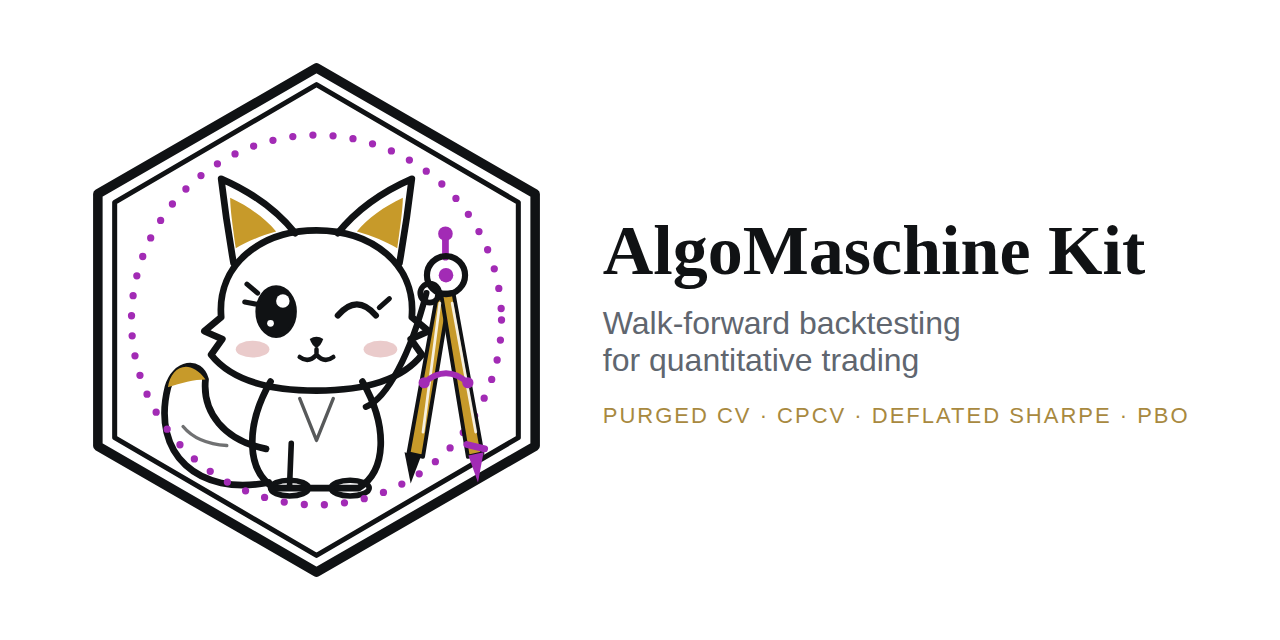
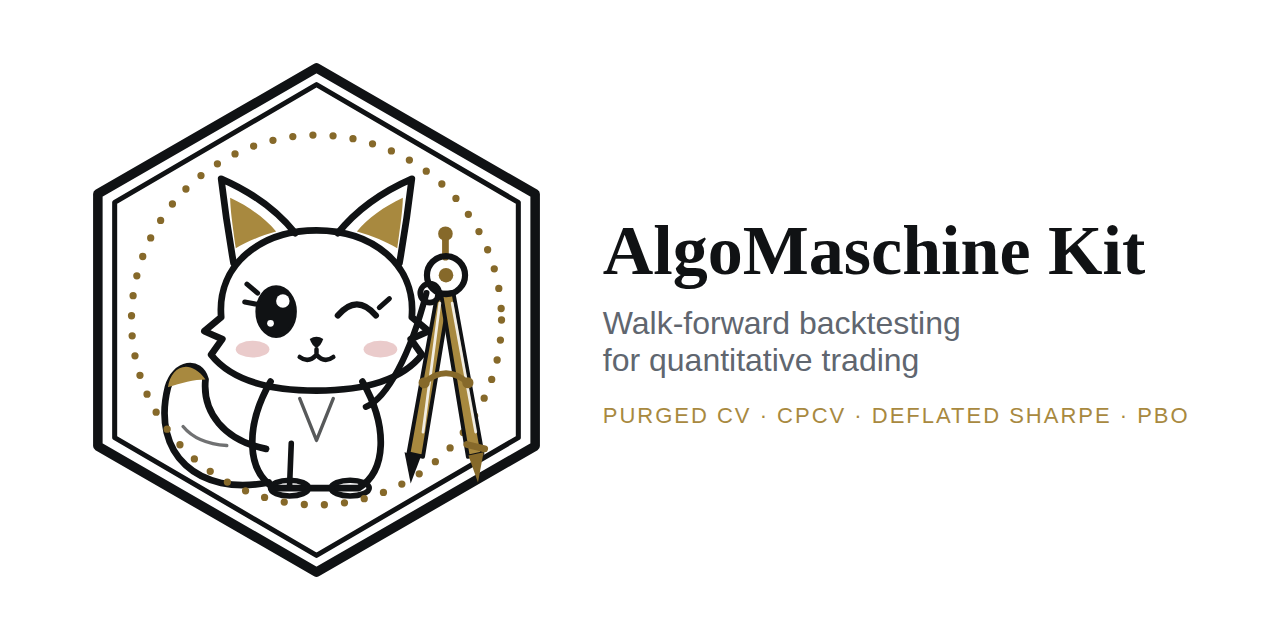
Palette: switch the whole kit to the AlgoMaschine Intelligence colours (black, white, gold)

diff --git a/amq/report/static/style.css b/amq/report/static/style.css
@@ -1,6 +1,6 @@
 /* AlgoMaschine research site: a calm, report-like style. Flat surfaces, hairline rules, one restrained accent
-   (the logo's magenta), no glows. Chart palettes validated with the dataviz validator (--pairs all):
-   light #00928a / #a8690a / #a22bb5 on #ffffff and dark #1fa39c / #bd7f17 / #c65ad6 on #161920: all checks pass.
+   (the AlgoMaschine Intelligence gold), no glows. Chart series: teal / amber are the earlier validated pair; the third (blue)
+   is new and has not been run through the dataviz validator yet: re-run it before relying on it.
    The benchmark is a neutral reference line (thinner, always labelled), not a categorical slot. */
 :root {
   --font-ui: "Inter", system-ui, -apple-system, "Segoe UI", Roboto, sans-serif;
@@ -12,23 +12,23 @@
 }
 :root, :root[data-theme="light"] {
   color-scheme: light;
-  --page: #f6f6f3; --surface: #ffffff; --raised: #ffffff; --sunken: #f2f2ef; --ring: #e3e3de; --ring-2: #cfcfc9;
-  --ink: #15171c; --ink-2: #434852; --muted: #6a6f78; --grid: #ecece8; --axis: #c8cac5;
-  --brand: #a22bb5; --brand-ink: #8a1f9b; --brand-soft: rgba(162, 43, 181, 0.06);
-  --s1: #00928a; --s2: #a8690a; --s3: #a22bb5; --bench: #5b6170; --volume: #dedfd9;
+  --page: #f3f4f5; --surface: #ffffff; --raised: #ffffff; --sunken: #eceef0; --ring: #d6d9de; --ring-2: #c3c7cd;
+  --ink: #101214; --ink-2: #32363c; --muted: #60666f; --grid: #e6e8eb; --axis: #c3c7cd;
+  --brand: #a8893f; --brand-ink: #86692a; --brand-soft: rgba(168, 137, 63, 0.08);
+  --s1: #00928a; --s2: #a8690a; --s3: #3b5ba5; --bench: #5b6170; --volume: #dcdfe3;
   --div-pos: #00928a; --div-neg: #c8423f; --div-mid: #efefeb;
-  --seq-1: #ecd3f1; --seq-2: #d9a8e4; --seq-3: #c27ad3; --seq-4: #a22bb5; --seq-5: #7c2089; --seq-6: #561660;
+  --seq-1: #f3ead3; --seq-2: #e4d2a1; --seq-3: #cfb66d; --seq-4: #a8893f; --seq-5: #7d6425; --seq-6: #54421a;
   --good: #1a7f37; --good-bg: #e7f4ea; --warn: #8a5a00; --warn-bg: #fdf3d7; --bad: #b42318; --bad-bg: #fdeceb;
   --info: #4a5160; --info-bg: #eef0f3; --shadow: 0 1px 2px rgba(20, 22, 28, 0.04);
 }
 :root[data-theme="dark"] {
   color-scheme: dark;
-  --page: #0f1115; --surface: #161920; --raised: #1c2029; --sunken: #12151a; --ring: #262a33; --ring-2: #353a46;
-  --ink: #e8eaee; --ink-2: #b4b9c3; --muted: #8a909b; --grid: #22262e; --axis: #3a3f4a;
-  --brand: #d17ae0; --brand-ink: #dc97e8; --brand-soft: rgba(209, 122, 224, 0.08);
-  --s1: #1fa39c; --s2: #bd7f17; --s3: #c65ad6; --bench: #9aa1ad; --volume: #2a2f38;
+  --page: #0d0e10; --surface: #15171a; --raised: #1b1e22; --sunken: #101215; --ring: #2a2e34; --ring-2: #3a3f46;
+  --ink: #f4f5f6; --ink-2: #c7cbd1; --muted: #969ca5; --grid: #1f2328; --axis: #3a3f46;
+  --brand: #c2a25a; --brand-ink: #d3b46c; --brand-soft: rgba(194, 162, 90, 0.10);
+  --s1: #1fa39c; --s2: #bd7f17; --s3: #7f9fe0; --bench: #9aa1ad; --volume: #2a2f38;
   --div-pos: #1fa39c; --div-neg: #e0605c; --div-mid: #272b34;
-  --seq-1: #4a2552; --seq-2: #6d3479; --seq-3: #9447a4; --seq-4: #c65ad6; --seq-5: #da8fe5; --seq-6: #ecc3f2;
+  --seq-1: #3a2f14; --seq-2: #5e4c20; --seq-3: #8a7030; --seq-4: #c2a25a; --seq-5: #dcc07c; --seq-6: #ecdcb0;
   --good: #57c878; --good-bg: rgba(87, 200, 120, 0.11); --warn: #e3b341; --warn-bg: rgba(227, 179, 65, 0.11);
   --bad: #f47067; --bad-bg: rgba(244, 112, 103, 0.11); --info: #a3a9b4; --info-bg: rgba(163, 169, 180, 0.11);
   --shadow: none;
@@ -41,8 +41,8 @@ a { color: var(--brand-ink); text-decoration: none; }
 a:hover { text-decoration: underline; text-underline-offset: 2px; }
 :focus-visible { outline: 2px solid var(--brand); outline-offset: 2px; border-radius: 3px; }
 
-/* ------------------------------------------------------------------ top bar: the logotype as designed, always on its own violet-black */
-.topbar { position: sticky; top: 0; z-index: 20; background: #0d0614; border-bottom: 1px solid rgba(255, 255, 255, 0.08); color: #f7f4fa; }
+/* ------------------------------------------------------------------ top bar: the logotype as designed, always on its own near-black plate */
+.topbar { position: sticky; top: 0; z-index: 20; background: #14161a; border-bottom: 1px solid rgba(255, 255, 255, 0.08); color: #f4f5f6; }
 .topbar-inner { max-width: 1400px; margin: 0 auto; display: flex; align-items: center; gap: 28px; padding: 0 var(--gutter); min-height: 64px; }
 .brand { display: flex; align-items: center; gap: 12px; color: inherit; text-decoration: none; flex: none; padding: 8px 0; }
 .brand:hover { text-decoration: none; }
@@ -55,7 +55,7 @@ a:hover { text-decoration: underline; text-underline-offset: 2px; }
 .tabs a { display: flex; align-items: center; color: #b8aec6; font-weight: 500; font-size: 14px; white-space: nowrap;
   border-bottom: 2px solid transparent; margin-bottom: -1px; padding: 2px 0 0; }
 .tabs a:hover { color: #ffffff; text-decoration: none; }
-.tabs a[aria-current="page"] { color: #ffffff; border-bottom-color: #d946ef; }
+.tabs a[aria-current="page"] { color: #ffffff; border-bottom-color: #d2b469; }
 .top-right { margin-left: auto; display: flex; align-items: center; gap: 14px; flex: none; }
 .status-line { font-size: 12.5px; color: #b8aec6; display: flex; gap: 12px; align-items: center; white-space: nowrap; }
 .status-line .dot { display: inline-block; width: 7px; height: 7px; border-radius: 50%; background: #8f84a0; margin-right: 6px; vertical-align: 1px; }
@@ -182,7 +182,7 @@ table.checks td:first-child { width: 1%; padding-right: 16px; }
 
 .note { border: 1px solid var(--ring-2); background: var(--sunken); padding: 10px 14px; border-radius: var(--radius); margin: 10px 0; color: var(--ink-2); }
 pre { white-space: pre-wrap; color: var(--ink-2); font: 12px/1.5 var(--font-mono); }
-footer.site { background: #0d0614; color: #b8aec6; font-size: 12.5px; margin-top: 40px; }
+footer.site { background: #14161a; color: #a9aeb6; font-size: 12.5px; margin-top: 40px; }
 footer.site .inner { max-width: 1400px; margin: 0 auto; display: flex; align-items: center; justify-content: center; gap: 10px; padding: 22px var(--gutter) 30px; }
 footer.site img { width: 22px; height: 24px; display: block; }
 

diff --git a/skills/algomaschine-reports/SKILL.md b/skills/algomaschine-reports/SKILL.md
@@ -7,17 +7,17 @@ description: Build AlgoMaschine-branded infographics, live dashboards and white 
 
 ## Brand and house style
 - **The logotype is never redrawn or simplified.** Use `brand/mark.svg` (the neon mark with its glow) and the white
-  Montserrat Light wordmark (letter-spacing ~0.09em, its soft glow) exactly as designed, on the logo's own violet-black
-  `#0d0614`: the top bar and the footer band are always that colour, in both themes. The mark is the favicon.
+  Montserrat Light wordmark (letter-spacing ~0.09em, its soft glow) exactly as designed, on the near-black plate
+  `#14161a` (the AlgoMaschine Intelligence palette: black, white, gold): the top bar and the footer band are always that colour, in both themes. The mark is the favicon.
 - Everything else is calm and established, never "neon": flat surfaces, hairline borders, 6 px radii, no glows,
   gradients or text-shadows outside the lockup. Inter for the interface (tabular figures), Source Serif 4 for long-form
   text, JetBrains Mono for code. Light and dark themes follow the OS preference, with a toggle.
 - Typographic minus (−) for negative numbers; sentence-case headings; no emoji; status always icon + label.
 
-## Palette (validated with the dataviz validator, --pairs all; re-run it before changing anything)
-- Systems, fixed order: light `#00928a`, `#a8690a`, `#a22bb5` on `#ffffff`; dark `#1fa39c`, `#bd7f17`, `#c65ad6` on `#161920`.
+## Palette (teal and amber validated earlier with the dataviz validator; the blue third colour and the gold ramp are new, so re-run the validator before relying on them)
+- Systems, fixed order: light `#00928a`, `#a8690a`, `#3b5ba5` on `#ffffff`; dark `#1fa39c`, `#bd7f17`, `#7f9fe0` on `#15171a`.
   Benchmark = neutral reference line (`#5b6170` light / `#9aa1ad` dark), thinner and always labelled.
-- Diverging (gain/loss): teal pole, red pole, neutral midpoint. Sequential: one plum ramp. Status colours are reserved.
+- Diverging (gain/loss): teal pole, red pole, neutral midpoint. Sequential: one gold ramp. Status colours are reserved.
 - More than 3 series -> small multiples or an HTML legend with toggles, never new hues.
 
 ## Required panels for a trading-system result

diff --git a/README.md b/README.md
@@ -1,10 +1,10 @@
 <p align="center"><img src="docs/img/banner.svg" alt="AlgoMaschine Kit: a cute winking fox holding a golden drafting compass, in a hexagon with a dotted circle, with the text Backtesting that tells the truth" width="100%"></p>
 
 <p align="center">
-  <a href="LICENSE"><img alt="License: MIT" src="https://img.shields.io/badge/license-MIT-d946ef?style=flat-square"></a>
-  <img alt="Python 3.11" src="https://img.shields.io/badge/python-3.11-d2b469?style=flat-square">
-  <img alt="Rust accelerator optional" src="https://img.shields.io/badge/rust-optional-0d0614?style=flat-square">
-  <img alt="Claude Code skills" src="https://img.shields.io/badge/Claude%20Code-skills-d946ef?style=flat-square">
+  <a href="LICENSE"><img alt="License: MIT" src="https://img.shields.io/badge/license-MIT-a8893f?style=flat-square"></a>
+  <img alt="Python 3.11" src="https://img.shields.io/badge/python-3.11-14161a?style=flat-square">
+  <img alt="Rust accelerator optional" src="https://img.shields.io/badge/rust-optional-14161a?style=flat-square">
+  <img alt="Claude Code skills" src="https://img.shields.io/badge/Claude%20Code-skills-a8893f?style=flat-square">
 </p>
 
 # AlgoMaschine Kit: walk-forward backtesting framework for quantitative trading
